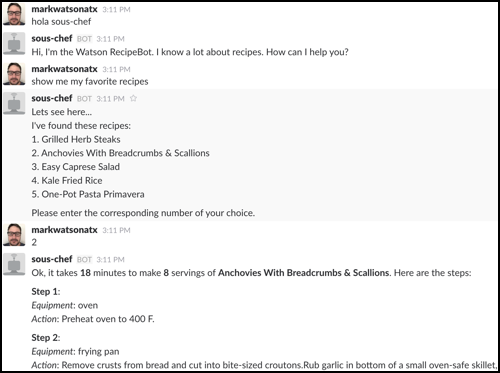
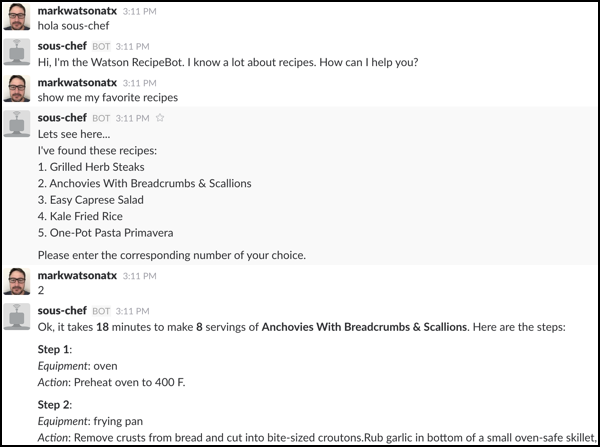
Updated screenshots

diff --git a/README.md b/README.md
@@ -293,8 +293,8 @@ To verify that your bot is running open Slack and start a direct conversation wi
 
 Here are some sample conversations you can have with the bot:
 
-![sous-chef](screenshots/sous-chef-convo1.png?rev=3&raw=true)
+![sous-chef](screenshots/sous-chef-convo1.png?rev=4&raw=true)
 
-![sous-chef](screenshots/sous-chef-convo2.png?rev=3&raw=true)
+![sous-chef](screenshots/sous-chef-convo2.png?rev=4&raw=true)
 
-![sous-chef](screenshots/sous-chef-convo3.png?rev=3&raw=true)
+![sous-chef](screenshots/sous-chef-convo3.png?rev=4&raw=true)
